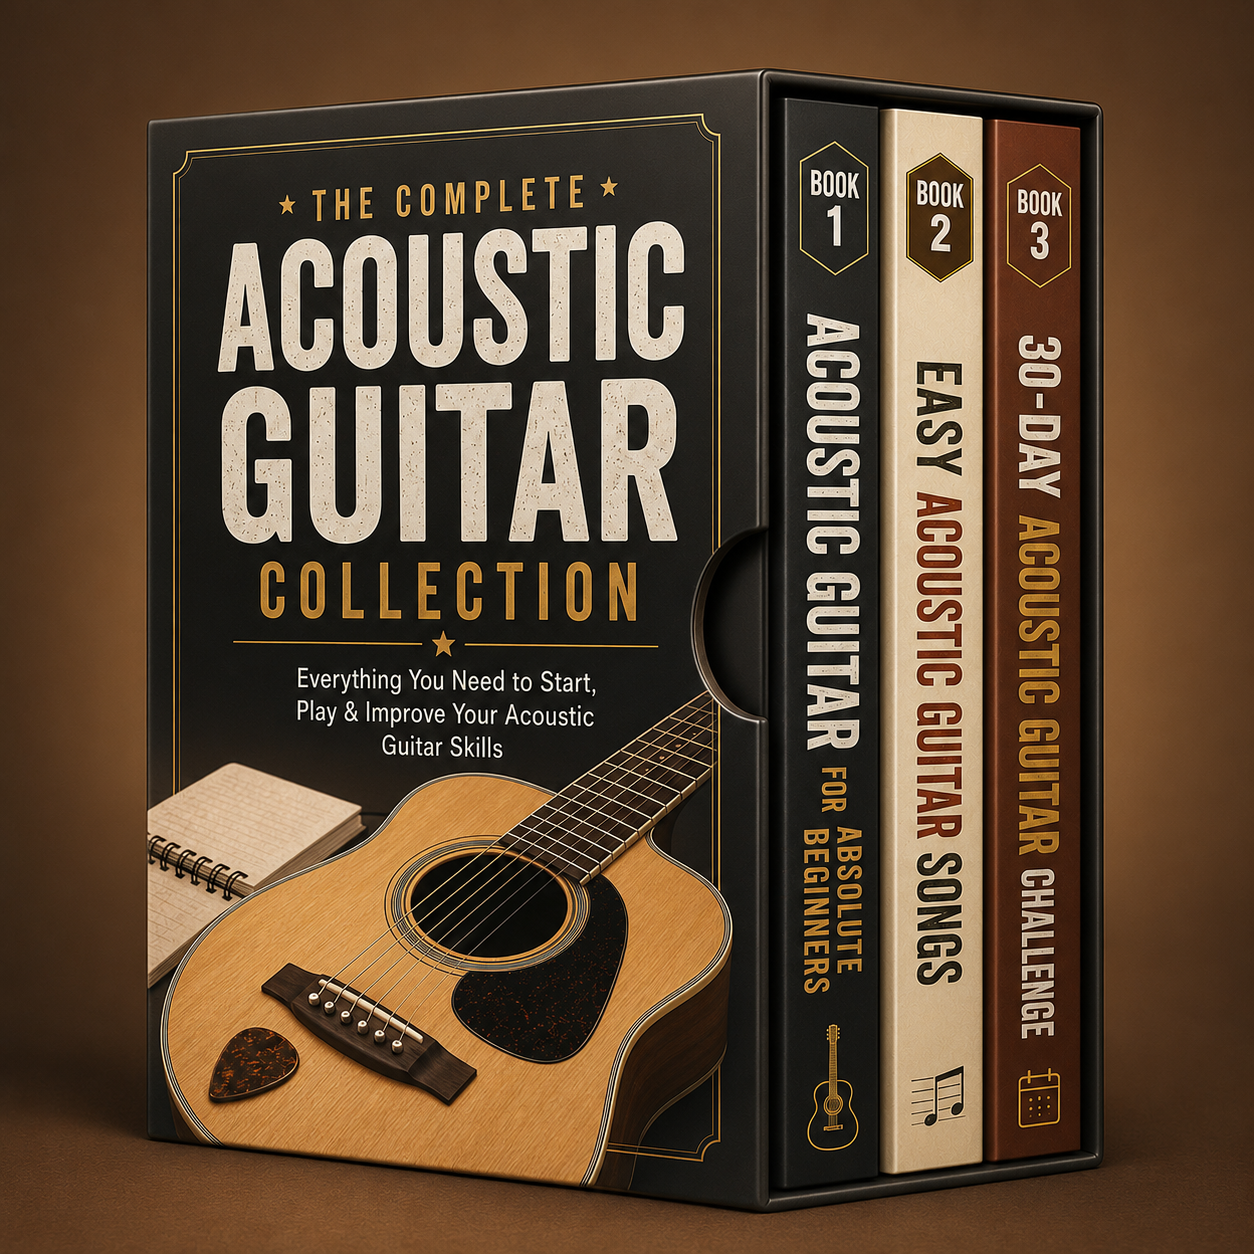
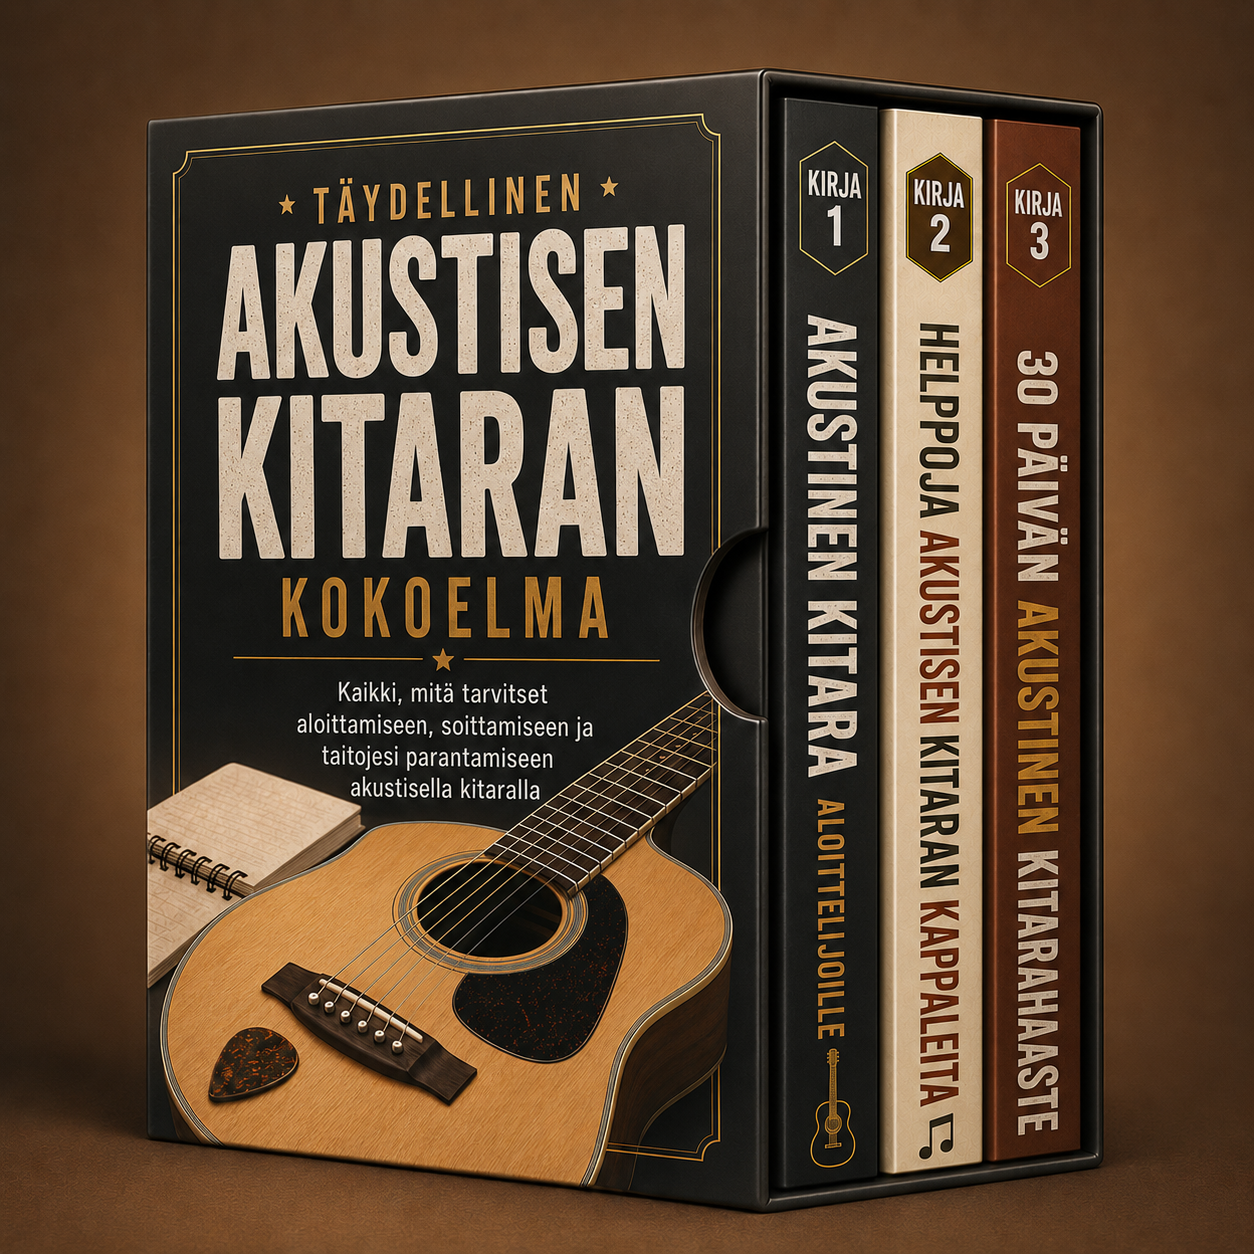
fix: replace Finnish guitar PDFs and cover image with actual downloaded files from Downloads

diff --git a/guitar-fi-members/index.html b/guitar-fi-members/index.html
@@ -11,7 +11,7 @@
     <link rel="preconnect" href="https://fonts.gstatic.com" crossorigin>
     <link href="https://fonts.googleapis.com/css2?family=Outfit:wght@300;400;500;600;700&display=swap" rel="stylesheet">
     <script src="https://unpkg.com/lucide@latest"></script>
-    <link rel="stylesheet" href="core.css?v=50">
+    <link rel="stylesheet" href="core.css?v=60">
 </head>
 
 <body>
@@ -66,8 +66,8 @@
         </nav>
     </div>
 
-    <script src="data.js?v=50"></script>
-    <script src="app.js?v=50"></script>
+    <script src="data.js?v=60"></script>
+    <script src="app.js?v=60"></script>
 
 </body>
 
